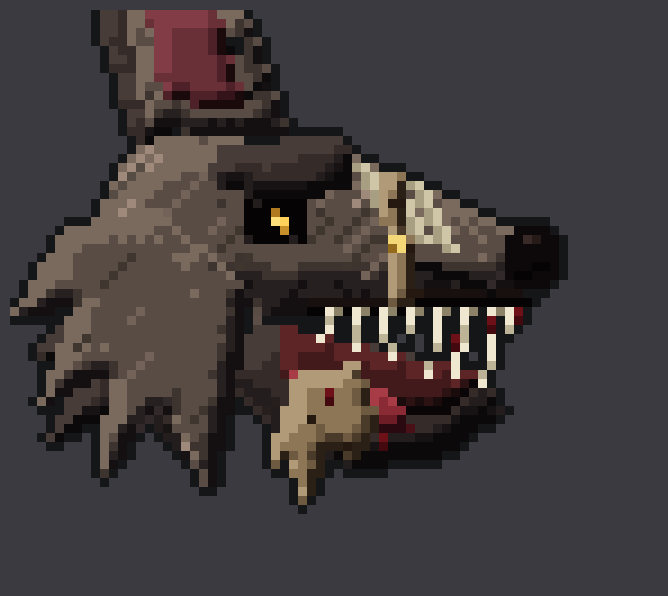
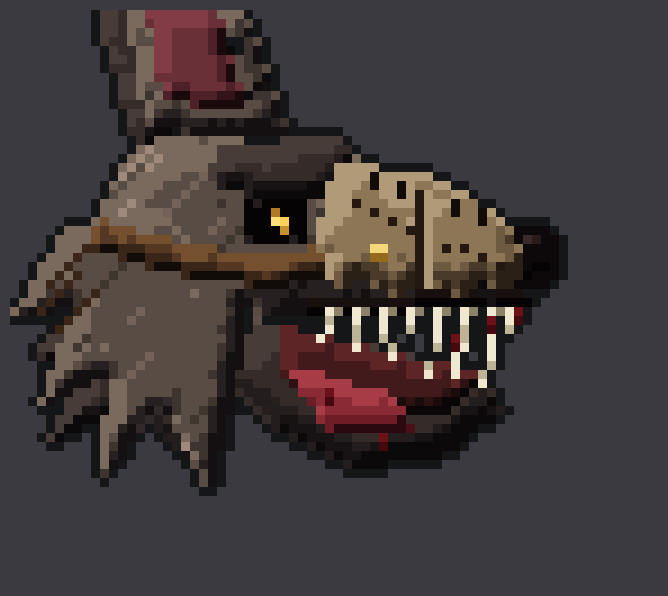
Verger beast part 2: trunk, leather mask stays on
Claude-Session: https://claude.ai/code/session_01Jpd5tdDJTR7BVueAYV1KDM

diff --git a/ArtSource/make_verger_beast_body.py b/ArtSource/make_verger_beast_body.py
@@ -1,0 +1,53 @@
+# Verger beast, PART 2: the trunk (Yan, 2026-11-20: "build it part by part"): shoulder hump, deep chest, ribs through a torn flank, spine, narrow waist and hip, thick neck, with the part-1 head placed on it. Gaunt frame (make_gaunt.py) at K=1.5.
+# Limbs, coat and scarf come in the next parts. python3 ArtSource/make_verger_beast_body.py -> mutants_anim/boss_concepts/verger_beast_body.png (+ _5x)
+import os, sys
+import numpy as np
+from PIL import Image
+sys.path.insert(0, os.path.dirname(os.path.abspath(__file__)))
+from pxart import *
+import make_verger_beast as mb
+from make_verger_beast import FUR, FURD, BONE, DARK, strands
+import make_verger_beast_head as hd
+OUT = os.path.join(os.path.dirname(os.path.abspath(__file__)), 'mutants_anim', 'boss_concepts')
+K = 1.5; OY = 14; S = (190, 200)
+def Y(pts): return [(x * K, (y + OY) * K) for x, y in pts]
+def wd(w): return [v * K for v in w]
+def T(m, pts, w): return m.tube(Y(pts), wd(w))
+def PL(m, pts): return m.poly(Y(pts))
+def E(m, cx, cy, rx, ry, rot=0): return m.ell(cx * K, (cy + OY) * K, rx * K, ry * K, rot)
+MUSC = ramp("#1a1413", "#2f2624", "#4a3d38", "#695850", "#8a7668")        # lit muscle under thin fur
+def trunk():
+    L = []
+    def part(build, cols, fur=0, **kw):
+        m = Mask(S); build(m); im = shade(m, cols, **kw); L.append(strands(im, kw.get('seed', 1), fur) if fur else im); return m
+    # the mass: pelvis, a deep barrel chest, a heavy shoulder hump, a thick neck
+    part(lambda m: (E(m, 34, 58, 8.5, 7.5), E(m, 40, 44, 12.5, 16, 18), E(m, 46, 31, 11, 9, -20), T(m, [(48, 29), (58, 21), (68, 22)], [11, 9, 8])), FUR, fur=460, tex=0.16, seed=3, depth=5, bias=-0.05)
+    # muscle: the shoulder blade, the pectoral and the long muscle of the back, lit from the top left
+    part(lambda m: E(m, 47, 31, 7, 5.5, -25), MUSC, fur=40, depth=2.4, tex=0.12, seed=21, gain=0.9)
+    part(lambda m: E(m, 49, 46, 5.5, 8, 25), MUSC, fur=40, depth=2.2, tex=0.12, seed=22, gain=0.85)
+    part(lambda m: T(m, [(50, 27), (43, 31), (38, 38), (35, 46), (33, 54)], [3.4, 3.4, 3.2, 3, 2.6]), MUSC, depth=1.4, tex=0.1, seed=23, gain=0.8)
+    # the torn flank: fur gone, a dark wound, five ribs standing out of it, loose strips of hide
+    cav = Mask(S); E(cav, 43, 46, 6.2, 10, 18); L.append(shade(cav, DARK, depth=2.4, tex=0.08, seed=4))
+    rib = Mask(S)
+    for k in range(5): T(rib, [(37.5, 39.5 + k * 3.4), (41.5, 40.5 + k * 3.4), (47, 43.5 + k * 3.4)], [1.4, 1.5, 0.9])
+    T(rib, [(46.5, 39), (47.5, 46), (47.5, 53)], [1, 1, 0.8])
+    L.append(shade(rib, BONE, depth=1.2))
+    hide = Mask(S); PL(hide, [(36, 36), (42, 36), (38, 41)]); PL(hide, [(44, 54), (49, 51), (47, 59)]); L.append(strands(shade(hide, FURD, depth=1.0, tex=0.2, seed=24), 24, 20))
+    # the spine: a ridge of shaggy fur with knuckles of bone through it
+    tuft = Mask(S)
+    for (x, y) in ((54, 22), (49, 25), (44, 28), (39, 33), (35, 40), (32, 48), (31, 56)):
+        PL(tuft, [(x - 2.5, y + 1), (x - 3.5, y - 5), (x + 1, y - 1.5), (x + 2, y - 6), (x + 3.5, y)])
+    L.append(strands(shade(tuft, FURD, depth=1.4, tex=0.2, seed=5), 5, 80))
+    sp = Mask(S)
+    for (x, y) in ((50, 24), (45, 27.5), (40, 32), (36, 38.5), (33, 46)): E(sp, x, y, 1.25, 1.1)
+    L.append(shade(sp, BONE, depth=1.2))
+    # the neck: a thick ruff of fur flowing from the skull into the shoulders
+    part(lambda m: PL(m, [(52, 24), (60, 18), (70, 20), (68, 30), (60, 34), (54, 32)]), FUR, fur=70, depth=2, tex=0.2, seed=25)
+    return paint(S, L)
+def with_head(body):
+    h = hd.head(); ax, ay = 14, 40                                           # the head's neck anchor
+    nx, ny = int(66 * K) + 6, int((21 + OY) * K)                             # where the neck ends on the trunk
+    im = body.copy(); im.alpha_composite(h, (nx - ax, ny - ay)); return outline(im)
+if __name__ == "__main__":
+    b = trunk(); f = crop(with_head(b), 2); f.save(os.path.join(OUT, "verger_beast_body.png"))
+    W = Image.new("RGBA", (f.width * 5 + 20, f.height * 5 + 20), (58, 58, 64, 255)); W.alpha_composite(f.resize((f.width * 5, f.height * 5), Image.NEAREST), (10, 10)); W.save(os.path.join(OUT, "verger_beast_body_5x.png")); print(f.size)

diff --git a/ArtSource/make_verger_beast_head.py b/ArtSource/make_verger_beast_head.py
@@ -55,12 +55,15 @@ def head(open_deg=16):
     # scars: three old claw lines across the bridge and a notch torn from the ear
     for k in range(3): line(im, 38 + k * 3, 17 + k, 42 + k * 3, 24 + k, BONE[2]); line(im, 39 + k * 3, 17 + k, 43 + k * 3, 24 + k, BONE[3])
     px(im, [(24, 3), (25, 4), (25, 3)], (0, 0, 0, 0)); px(im, [(24, 4)], FURD[0])
-    # the leather mask: burst, a band still cutting into the muzzle with its buckle, a flap hanging from one strap under the jaw
-    band = Mask(S); band.poly([(41, 18), (43.5, 18), (45, 33), (42.5, 33)]); im.alpha_composite(shade(band, TAN, depth=1.1, tex=0.2, seed=9))
-    for yy in (21, 26, 31): px(im, [(X(41 + (yy - 17) * 0.2), yy), (X(42 + (yy - 17) * 0.2), yy)], LEATHER[1])
-    px(im, [(42, 25), (43, 25), (42, 26), (43, 26)], BRASS[4]); px(im, [(42, 26)], BRASS[2])
-    fl = Mask(S); fl.poly(rot([(32, 40), (39, 38), (42, 44), (40, 49), (37, 47), (35, 55), (32, 49), (30, 51)], open_deg * 0.4, hinge)); im.alpha_composite(shade(fl, TAN, depth=1.4, tex=0.22, seed=10))
-    for (x, y) in rot([(34, 44), (38, 47)], open_deg * 0.4, hinge): px(im, [(X(x), X(y))], LEATHER[1])
+    # the leather mask, still on: a stitched cup over the upper muzzle with a torn lower edge (the fangs burst through), a strap round the head under the eye, a brass buckle, a seam down the nose
+    strap = Mask(S); strap.tube([(38, 27), (30, 29), (20, 28), (10, 25)], [3.2, 3.2, 3.2, 3.0]); im.alpha_composite(shade(strap, LEATHER, depth=1.0, tex=0.2, seed=9))
+    cup = Mask(S); cup.poly([(36, 17), (46, 18), (55, 23), (57, 27), (56, 31), (52, 30), (50, 32), (46, 30), (43, 32), (39, 30), (36, 31), (34, 25)]); im.alpha_composite(shade(cup, TAN, depth=2.2, tex=0.24, seed=10))
+    seam = [(x, 21 + (x - 38) * 0.45) for x in range(38, 56)]; px(im, [(X(x), X(y)) for x, y in seam[::2]], LEATHER[1])             # the stitched seam along the top
+    for k in range(5): px(im, [(40 + k * 3, 19 + k), (40 + k * 3, 18 + k)], LEATHER[0])                                                    # stitches
+    line(im, 45, 20, 45, 30, LEATHER[1]); line(im, 46, 20, 46, 30, TAN[4])                                                                   # a fold where it strains over the muzzle
+    px(im, [(40, 26), (41, 26), (40, 27), (41, 27)], BRASS[4]); px(im, [(40, 27), (41, 27)], BRASS[2])                                   # the buckle where the strap meets the cup
+    px(im, [(52, 31), (53, 31), (53, 32)], FURD[1])                                                                                         # a torn gap
+    for (x, y) in ((8, 26), (7, 29), (9, 31)): line(im, x, y, x - 4, y + 4, LEATHER[2])                                                      # the strap's loose ends flapping behind the ear
     # blood on the muzzle, the teeth and the flap
     for (x, y) in ((53, 34), (49, 36), (35, 42), (56, 33), (41, 47)): P(x, y, RED[2]); P(x, y + 1, RED[1])
     return outline(im)

diff --git a/ArtSource/WORK_LOG.md b/ArtSource/WORK_LOG.md
@@ -6857,3 +6857,4 @@ Yan: "give me the concept for that boss we talked about after this". `ArtSource/
 - 9ag: first beast concept (Verger form 2), `ArtSource/make_verger_beast.py` -> `mutants_anim/boss_concepts/verger_beast_concept.png`, `verger_beast_vs_gaunt.png`. Hand-built, rough (blocky paws, limb anatomy weaker than the Gaunt). Concept only, not in the game.
 - 9ag: beast concept v2 rebuilt on the Gaunt's method (`make_verger_beast.py`, Gaunt frame scaled 1.3x). Yan: a bad reference gives a bad sprite. Still weak (flat wedge head, thin torso, flat fur, blob coat): NOT to be used as a sprite-maker reference. Waiting on Yan: his own beast reference, or more hand passes part by part.
 - 9ag beast PART 1 of N: the head (`make_verger_beast_head.py` -> `boss_concepts/verger_beast_head(_9x).png`): wolf skull with brow, arched muzzle, gold eye, ruff, tall ears, snarl with real teeth, claw scars, a burst leather mask (band with buckle + a hanging flap). Next: shoulders/chest, then arms, legs, coat.
+- 9ag beast PART 1b: the leather mask stays on (stitched cup over the upper muzzle with the fangs bursting through, strap round the head, brass buckle). PART 2: the trunk (`make_verger_beast_body.py` -> `boss_concepts/verger_beast_body(_5x).png`): shoulder hump, chest, muscle, torn flank with five ribs, spine tufts and knuckles, neck ruff; head attached. Next: legs, arms, coat, scarf, belt.
